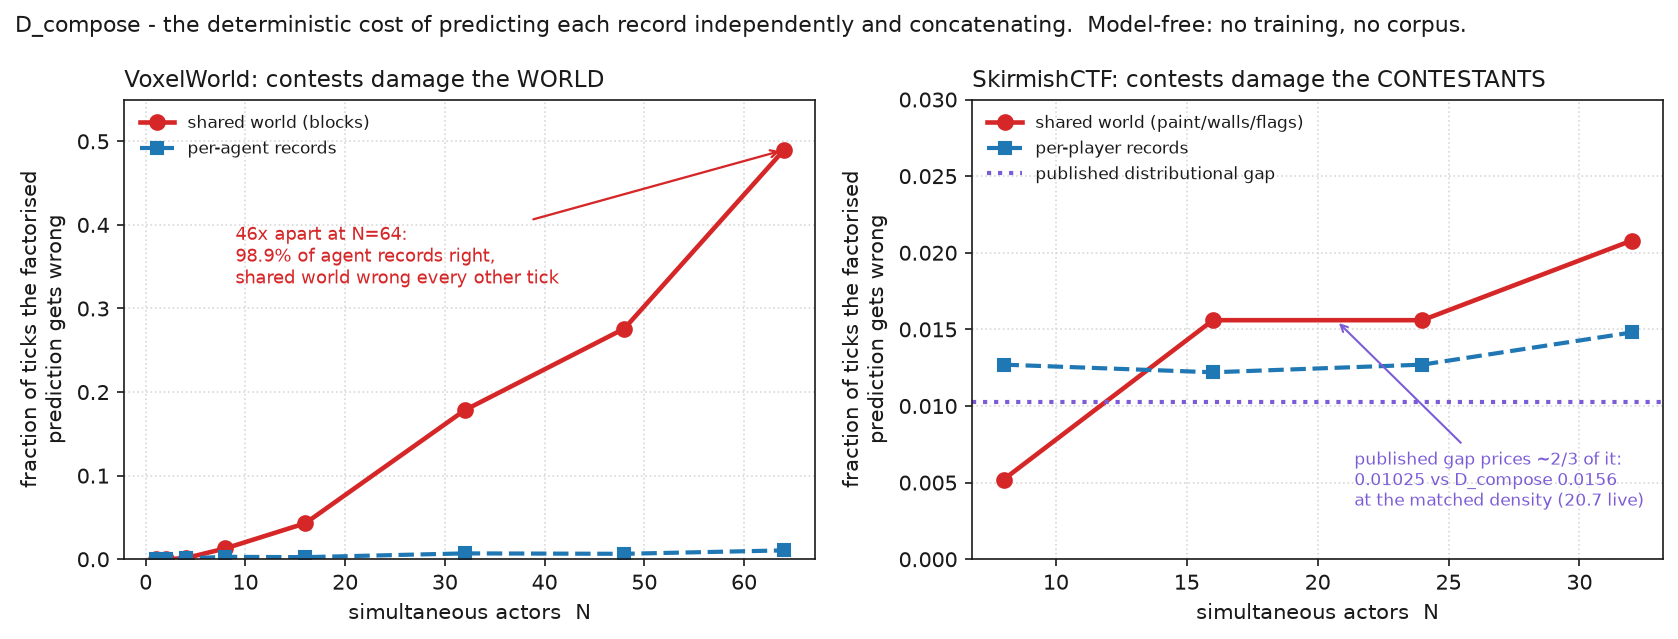
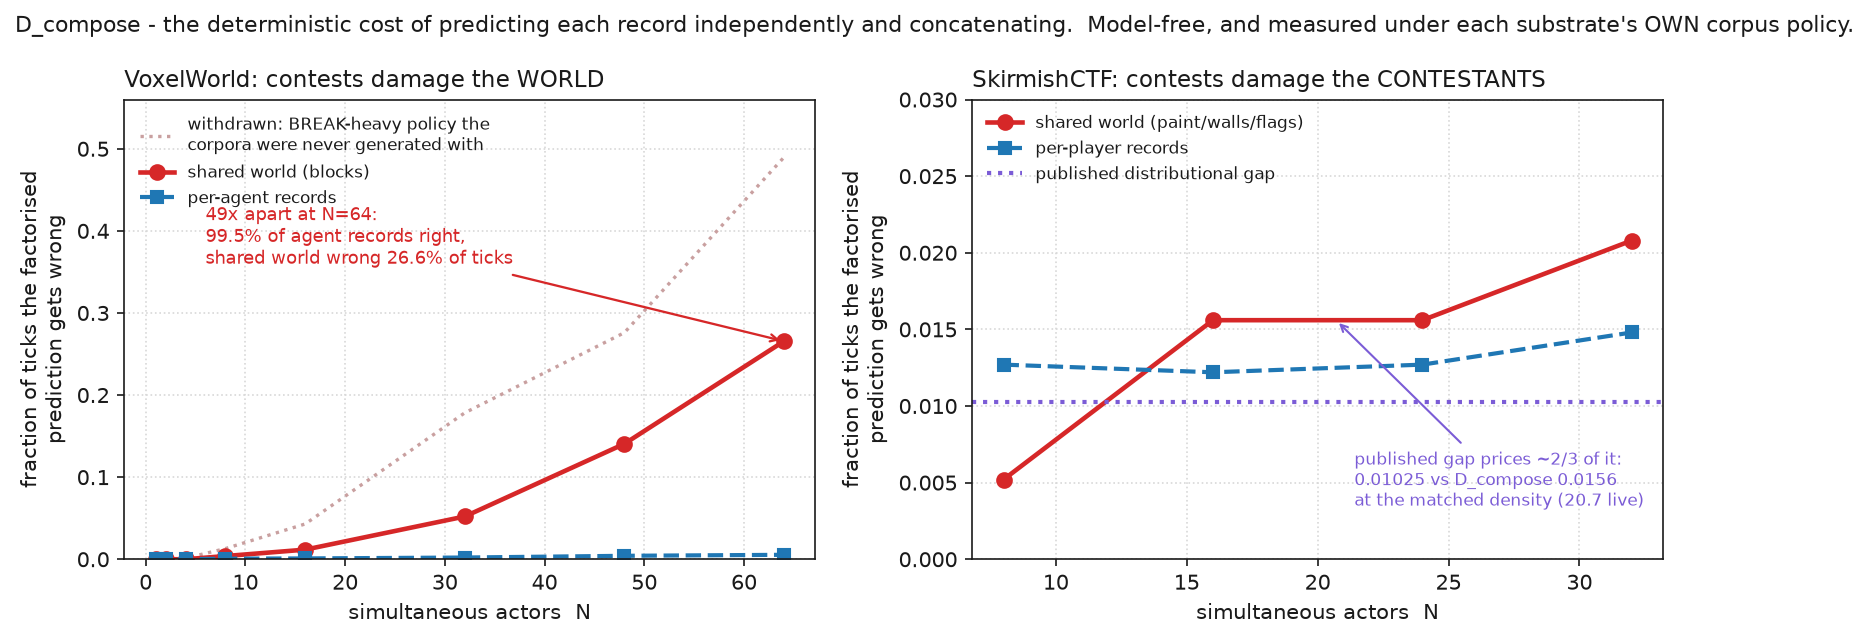
Correction: D_compose was measured under the wrong action policy
Every voxel D_compose figure on this site came from a BREAK-heavy policy while
the corpora were generated with a milder one - twice the rate of the only action
that can contend. Corrected, the magnitudes fall 2-3.5x: N=64 goes 0.4896 ->
0.2656, crowd8 0.0156 -> 0.0039, crowd32 0.2604 -> 0.1055. The withdrawn curve
is drawn faintly in the chart rather than silently swapped.

This is the same mistake already catalogued on the page, committed in the
opposite direction: there a too-weak action source manufactured a clean 0.0000
where the real effect was 0.0156.

What survives: monotone superlinear growth, exact zero below N=8, small
interaction components, and a per-agent/shared ratio that WIDENS from 46x to 49x.
What does not: 'wrong every other tick', and F237's cross-substrate magnitude
claim - voxel is now LOWER than CTF at N=8/16. The structural claim replaces it
and does not depend on comparing two substrates at a nominally equal N.

diff --git a/index.html b/index.html
@@ -190,18 +190,43 @@ each tick with only agent&nbsp;<i>i</i> acting, same exogenous draw, compare —
 gives a clean scaling law with an unexpected shape.</p>
 <img class="chart" src="assets/f235_dcompose_scaling.png" alt="D_compose scaling">
 <div class="box hero">
-<p>At N=64 a record-wise factorised model is right about <b>98.9% of agent
-records</b> while being wrong about the <b>shared world in 48.96% of ticks</b>.
-The two curves are 46× apart and still diverging. Report per-record exactness and
-the model looks healthy while getting the world wrong every other tick — which is
+<p>At N=64 a record-wise factorised model is right about <b>99.5% of agent
+records</b> while being wrong about the <b>shared world in 26.6% of ticks</b>.
+The two curves are 49× apart and still diverging. Report per-record exactness and
+the model looks healthy while getting the world wrong one tick in four — which is
 exactly why the shared layer needs its own metric.</p>
 </div>
-<p>The substrates differ in kind, not just degree. In CTF a contest damages the
-<em>contestants</em> (you get shot, you lose the race to a cell) and the per-player
-and shared errors are the same size. In VoxelWorld a contest damages the
-<em>world</em> (the terrain ends up different) and the contestants are barely
-touched. A per-record metric is therefore far more misleading on the 3-D substrate
-— a concrete reason to build it, not a stylistic preference.</p>
+<div class="box warn">
+<p><b>Correction, 2026-08-28.</b> This chart first went up with the voxel curve
+2–3.5× too high (N=64 read 48.96%), because I measured it under a BREAK-heavy
+action policy while the corpora were generated with a milder one — twice the rate
+of the only action that can contend. The withdrawn curve is drawn faintly above so
+the change is visible rather than silently swapped.</p>
+<p>What survives the correction is the part the claim rests on: still monotone and
+superlinear, still exactly zero below N=8, interaction components still small
+(max 4, so many independent pairwise contests rather than percolation), and the
+per-agent/shared ratio actually <em>widens</em> from 46× to 49×. What does not
+survive is the sentence "wrong every other tick".</p>
+<p class="dim">This is the same mistake catalogued two entries above, committed in
+the opposite direction — there a too-weak action source manufactured a clean
+0.0000 where the real effect was 0.0156. A composition-error measurement inherits
+the action distribution it was taken under, so it has to be measured under the same
+one it is quoted about.</p>
+</div>
+<p>The substrates differ in <em>kind</em>. In CTF a contest damages the
+<b>contestants</b> — you get shot, you lose the race to a cell — so per-player and
+shared errors are the same magnitude and move together. In VoxelWorld a contest
+damages the <b>world</b>: the terrain ends up different while the contestants are
+untouched, and the two errors are 49× apart. So on the 3-D substrate a per-record
+metric is <em>decoupled</em> from the shared-layer error; on the flat one it
+tracks it. That is the reason to build the view-changing tier.</p>
+<p class="dim">Stated as structure rather than as size, deliberately. An earlier
+version said the 3-D substrate was "far more misleading" and backed it with a
+2.8×/8.6× magnitude ratio. Once both sides were measured under their own corpus
+policy the ratios became 0.75× at N=8 and N=16 and 2.5× at N=32 — and the
+comparison was never sound anyway, since the two substrates differ in world size,
+density and action space, so "at the same N" is not a controlled comparison. Each
+substrate's own pair of curves is comparable; their levels are not.</p>
 <p class="dim">Also settled: whether the mean-field gap is <em>visible</em> depends
 on whether the tie-break is randomised, not on how much contention there is. CTF
 resolves contests through a random priority permutation, so the coupling lands in

diff --git a/environments.html b/environments.html
@@ -131,12 +131,17 @@ the second-order interaction a collision-counting metric misses.</p>
 <tr><td>voxel_miner</td><td>1843</td><td>0.1562</td><td>0.9436</td><td>0.7500</td><td>directed digging policy</td></tr>
 <tr><td>voxel_hunt</td><td>1843</td><td>0.1797</td><td>0.9087</td><td>—</td><td>moving mobs</td></tr>
 <tr><td>voxel_small</td><td>629</td><td>0.1289</td><td>0.9558</td><td>—</td><td>the field-count falsifier</td></tr>
-<tr><td><b>voxel_crowd8</b></td><td>1962</td><td>0.1758</td><td>0.9348</td><td>training</td><td>N=8, 93.1% of state shared, D_compose 0.0156</td></tr>
-<tr><td><b>voxel_crowd32</b></td><td>1906</td><td>0.2734</td><td>0.9263</td><td>training</td><td>N=32, 61.4% shared, <span class="bad">D_compose 0.2604</span></td></tr>
+<tr><td><b>voxel_crowd8</b></td><td>1962</td><td>0.1758</td><td>0.9348</td><td>training</td><td>N=8, 93.1% of state shared, D_compose 0.0039</td></tr>
+<tr><td><b>voxel_crowd32</b></td><td>1906</td><td>0.2734</td><td>0.9263</td><td>training</td><td>N=32, 61.4% shared, <span class="bad">D_compose 0.1055</span></td></tr>
 </table>
 <img class="chart" src="assets/f235_dcompose_scaling.png" alt="D_compose">
-<figcaption>At N=64 a record-wise model is right about 98.9% of agent records while
-being wrong about the shared world in 48.96% of ticks.</figcaption>
+<figcaption>At N=64 a record-wise model is right about 99.5% of agent records while
+being wrong about the shared world in 26.6% of ticks. <b>Corrected
+2026-08-28</b> — the first version of this curve, and the two table figures above,
+were measured under a BREAK-heavy policy the corpora were never generated with and
+read 2–3.5× too high. The withdrawn curve is drawn faintly in the chart. The shape,
+the zero below N=8 and the small interaction components all survive; the
+per-agent/shared ratio widens from 46× to 49×.</figcaption>
 
 <h2>3 · MinAtar — five games <span class="pill play">3 PLAYABLE</span></h2>
 <p>The flat tier, and the one where the ceiling argument is sharpest: the raw

diff --git a/STAGE_REPORT_2026-08-28.md b/STAGE_REPORT_2026-08-28.md
@@ -29,12 +29,17 @@
 | 4 | 0.0010 | 0.0013 | 2.00 / 2 |
 | 8 | 0.0029 | 0.0130 | 2.00 / 2 |
 | 16 | 0.0025 | 0.0430 | 2.00 / 2 |
-| 32 | 0.0070 | **0.1784** | 2.03 / 3 |
-| 48 | 0.0065 | **0.2760** | 2.00 / 2 |
-| 64 | 0.0106 | **0.4896** | 2.01 / 3 |
+| 32 | 0.0021 (0.0070) | **0.0521** (0.1784) | 2.02 / 3 |
+| 48 | 0.0042 (0.0065) | **0.1406** (0.2760) | 2.03 / 3 |
+| 64 | 0.0054 (0.0106) | **0.2656** (0.4896) | 2.03 / 3 |
 
-**N=64 时，record-wise 分解对 98.9% 的 agent record 是对的，
-却在 48.96% 的 tick 上把共享世界算错。** 两条曲线相差 **46×** 且仍在张开。
+**N=64 时，record-wise 分解对 99.5% 的 agent record 是对的，
+却在 26.6% 的 tick 上把共享世界算错。** 两条曲线相差 **49×** 且仍在张开。
+
+⚠ **括号内为已撤回的旧值（F244）**：整张表原先测在 BREAK 加权的 `mixed_policy` 下，
+而语料是 `policy_miner` 生成的——恰好在唯一能争用的动作上翻了一倍，把效应放大 2–3.5×。
+幸存：单调超线性、N ≤ 4 恰为 0、争用组仍很小（最大 4）、逐 agent/共享比值 46× → **49×**。
+不幸存：「每隔一个 tick 就错」。
 
 - 24×24×12（2.7 倍体积）把曲线右移但不压平（N=32：0.1784 → 0.0807）⇒ **密度定速率，机制定形状**。
 - 争用组始终小（最大 3，直到 N=64）⇒ **不是 percolation**，是大量两两争用。
@@ -70,23 +75,30 @@
 
 ### F237 ★ 按上述预登记去测 CTF 的另一半——**我的预测被推翻**
 
+⚠ **voxel 列已按 F244 更正**（旧值括号内），两侧现在都测在**各自语料的策略**下：
+
 | N | CTF `mf_disagree` | **CTF D_compose** | Voxel D_compose | 倍数 |
 |---|---|---|---|---|
-| 8 | 0.0127 | 0.0052 | 0.0130 | 2.5× |
-| 16 | 0.0122 | 0.0156 | 0.0430 | **2.8×** |
+| 8 | 0.0127 | 0.0052 | 0.0039 (0.0130) | **0.75×** |
+| 16 | 0.0122 | 0.0156 | 0.0117 (0.0430) | **0.75×** |
 | 24 | 0.0127 | 0.0156 | — | — |
-| 32 | 0.0148 | 0.0208 | 0.1784 | **8.6×** |
+| 32 | 0.0148 | 0.0208 | 0.0521 (0.1784) | **2.5×** (旧 8.6×) |
 
 - 预登记为 `D_compose >> 0.01025`，**实测 1.5×**（0.0156 vs 0.01025 @ 匹配密度 20.72 活体）。
   **预测太强。** 正确读法：**CTF 的分布式 gap 抓住了大部分而非全部**，确定性余项再加约 1/3。
   ⇒ **CTF 那批头条数字站得住**（这是事前点名的"令人放心"分支）。
 - ⚠ **动作分布是真混杂**：均匀随机动作下 D_compose 在 N=4/8/16 读**恰好 0.0000**，
   语料 PolicyBank 在 N=16 给 0.0156。**只跑随机臂的话，"放心"结论完全是假象。**
-- **形状也不同**：CTF 逐 player 失配（0.0122–0.0148，随 N 基本平）与共享误差同量级；
-  voxel 逐 agent 停在 ~1% 而共享误差是它的 46×。
+- ⚠⚠ **更正后必须撤回一句话：「per-record 指标在 3-D 基底上比在平面基底上误导得多」
+  这个说法的依据不再是量级。** 更正后 voxel 在 N=8/16 上**低于** CTF（0.75×），
+  只有 N=32 才反超（2.5×，旧值 8.6×）。而且两个基底的世界大小/密度本来就不同，
+  **「同一个 N」的跨基底比较本身就是松的**，之前不该按倍数下结论。
+- **真正稳健、且更新后更强的是形状**：CTF 逐 player 失配（0.0122–0.0148，随 N 基本平）
+  **与共享误差同量级**；voxel 逐 agent 停在 0.0054 而共享误差是它的 **49×**（旧 46×）。
   机制上：**CTF 里争用伤的是争用者**（被打中、抢格子输了），
-  **Voxel 里争用伤的是世界**（地形最终不一样）。
-  ⇒ **per-record 指标在 3-D 基底上比在平面基底上误导得多**——这是做视角变换层的具体理由。
+  **Voxel 里争用伤的是世界**（地形最终不一样，而争用者毫发无损）。
+  ⇒ **正确的表述是：在 3-D 基底上，per-record 指标与共享层的误差彻底解耦；
+  在 CTF 上两者同量级。** 这是"做视角变换层"的理由，而它是关于**结构**的陈述，不是关于倍数的。
 - 另记 `union_ill_defined_cells` 每次 1–6 个：两条 solo 重放对同一格写入**不同**值，
   **根本不存在 union**。稀少但是分解式预测本身的结构性歧义，故**单独计数不做任意消解**。
 
@@ -183,8 +195,9 @@ humanoid/walker/hopper 到 **H16 全部 8/8** ⇒ 过了那个视界 rollout 从
 错的时候产出的是模拟器**根本产生不了**的东西。
 
 **F240｜多 agent 体素语料建成并验证。**
-`voxel_crowd8`（15×15×8, N=8, 1962 字段, len 3943, 93.1% 共享, D_compose 0.0156）与
-`voxel_crowd32`（12×12×8, N=32, 1906 字段, len 3879, 61.4% 共享, **D_compose 0.2604**）。
+`voxel_crowd8`（15×15×8, N=8, 1962 字段, len 3943, 93.1% 共享, D_compose **0.0039**）与
+`voxel_crowd32`（12×12×8, N=32, 1906 字段, len 3879, 61.4% 共享, **D_compose 0.1055**）。
+⚠ 这两个数已按 F244 更正（旧值 0.0156 / 0.2604，测错了动作分布）。
 动作块**按 slot 有序**（引擎按 slot 顺序解算争用 ⇒ slot 下标是转移函数的一部分）。
 默认仍 `n_agents=1` 且单 agent 路径逐位相同 ⇒ 旧语料全不变。
 
